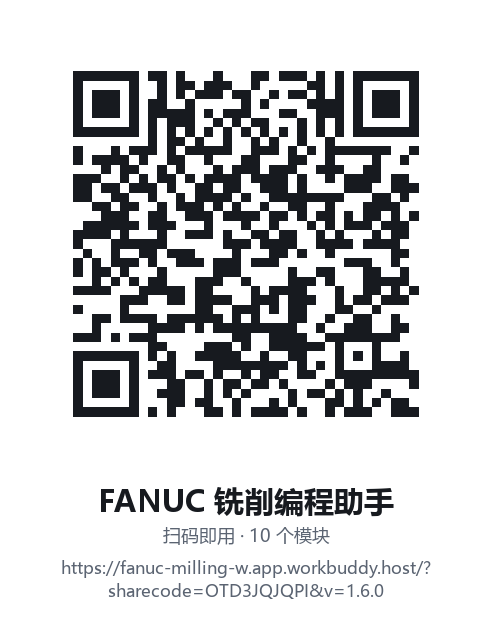
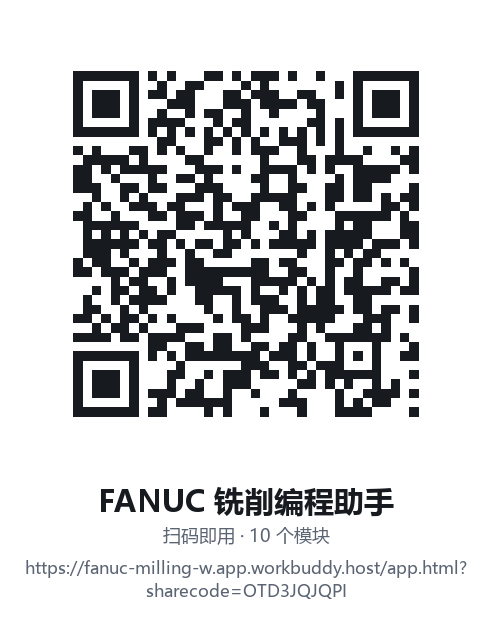
docs: 记录稳定链接方案与线上实测（v1.6.2）

Changed region(s): [[0.122, 0.0905, 0.8537, 0.6635], [0.061, 0.8746, 0.9451, 0.9651]]

diff --git a/docs/history/2026-10-24.md b/docs/history/2026-10-24.md
@@ -103,3 +103,36 @@
 配套：`tools/release.js` 发版时自动写 `version.json`（`{v, built}`）并纳入提交；断言 194 → **195**（无 location 环境下自检不报错）。
 
 **验证**：本地 file:// 下自检直接跳过（协议判断）；线上由 `?ts=` 保证读到最新 version.json。
+
+## 已完成：彻底解决「每版换链接」（v1.6.2，架构调整）
+
+用户不接受 `&v=` 每版换链接。目标改为：**一个永久链接，发布后自动跟更新**。
+
+**探测出关键事实**：同一份文件，不同 URL 的缓存行为不同 ——
+
+| URL | 行为 |
+|---|---|
+| `/?sharecode=…`（根） | 长期 HIT 旧副本，`Age` 每 2 秒重置仍在命中，重发不清 |
+| `/index.html?sharecode=…` | 跟随文件 mtime，但**这次发布后仍停在上一版**（说明它不是可靠通道） |
+| `/app.html?sharecode=…`（全新路径） | 全新路径无历史缓存，MISS → 立即拿到新版 |
+
+结论：**缓存是「按完整 URL 钉住」的**，任何"曾经用过的 URL"都可能在某个时间点卡住。所以不能靠"找个好 URL"，要让**会变的东西不在被分发的那个 URL 上**。
+
+**最终架构**：
+
+```
+index.html  (1 KB, 永不变)  →  location.replace('app.html' + location.search)
+app.html    (~940 KB, 每版变) ← 所有内容都在这里
+version.json  {"v":"1.6.2","built":…} ← 应用用来做版本自检
+```
+
+- 对外固定链接：`https://fanuc-milling-w.app.workbuddy.host/app.html?sharecode=OTD3JQJQPI`
+- 入口那 1 KB 就算被缓存旧了也无害——它本来就只做转发，且永远不需要改
+- 应用加载后 30 分钟一次 `fetch('version.json?ts=…')`，版本不一致就弹「线上已更新到 vX · 刷新到新版」，点击用 `?_=<时间戳>` 跳转（换 URL 绕开任何残留缓存）
+
+**实测（全新浏览器配置）**：
+- `/app.html?sharecode=…` → 徽标 **v1.6.2**，无提示条，0 异常
+- `/?sharecode=…`（根）→ 仍是 v1.5.0（根缓存还没刷，但已不影响分发链接）
+- 提示条实测：`position:fixed`、底部居中、文案「线上已更新到 v9.9.9 当前页面是 v1.6.2 的缓存副本 [刷新到新版] ×」，跳转 URL 正确拼出 `&_=<时间戳>`
+
+**工具链改动**：`tests/`、`sync-doc`、`version`、`release`、`shoot-panel` 全部改指向 `app.html`；`release.js` 每次发版写 `version.json`；`make-qrcode.py` 传根链接时自动改写成 `/app.html?sharecode=…` 并停止追加 `&v=`。断言 195 全过。
